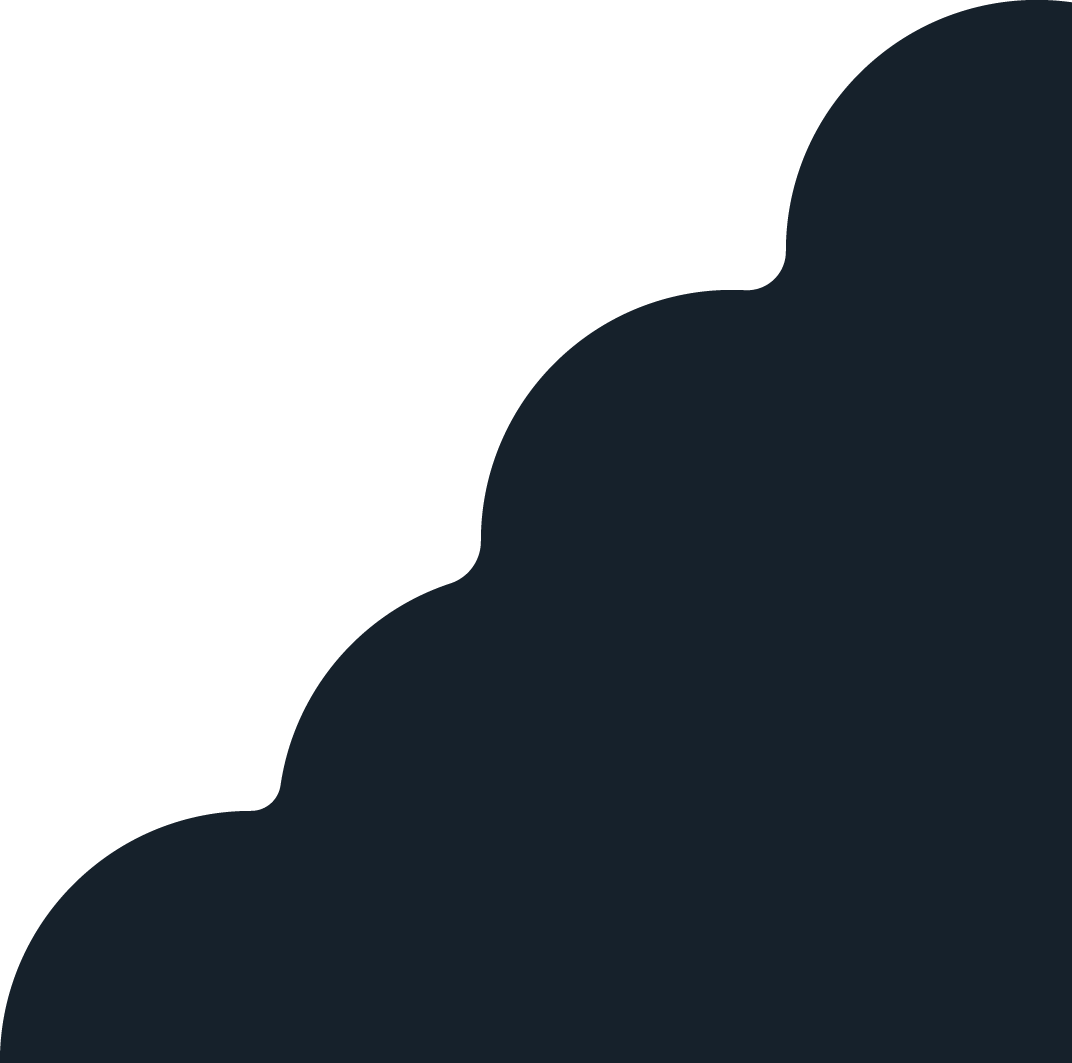
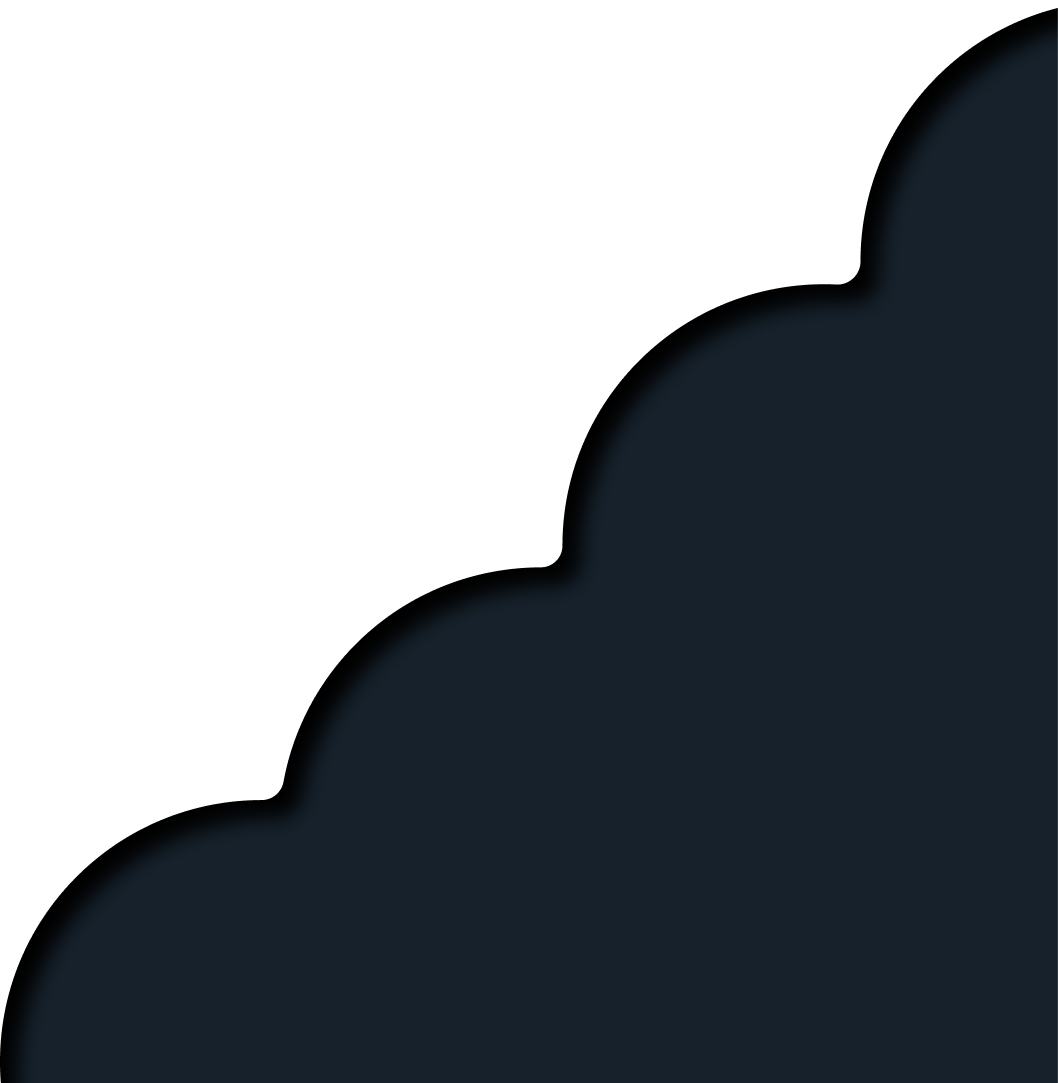
adjusted css, added webp img

Changed region(s): [[0.0, 0.0, 1.0, 1.0]]

diff --git a/style.css b/style.css
@@ -21,8 +21,33 @@ body{
   font-family:var(--base-font);
 }
 
-/* Ensure images behave predictably */
 img{display:block; max-width:100%; height:auto;}
+
+.title-span{ color:var(--fourth-clr); font-family:inherit; font-size:inherit; }
+
+h1{
+  margin-top:40px;
+  margin-bottom:10px;
+  font-family:var(--script-font);
+  font-size:clamp(5rem,8vw,7.5rem);
+}
+
+p{
+  max-width:420px;
+  font-size:16px;
+  line-height:1.5;
+  margin:30px 0;
+  color:var(--primary-clr);
+  text-align:left;
+}
+
+h6{
+  font-size:30px;
+  font-weight:600;
+  color:var(--third-clr);
+  font-family:var(--script-font);
+  text-align:left;
+}
 
 /* NAVBAR */
 .navbar{
@@ -47,19 +72,13 @@ img{display:block; max-width:100%; height:auto;}
   height:38px;
   background:var(--secondary-clr);
   border-radius:50%;
-  display:flex;
-  align-items:center;
-  justify-content:center;
+  position: relative;
   padding:2px;
-  font-weight:bold;
-  color:var(--primary-clr);
 }
 .logo img{
   width:100%;
   height:100%;
-  object-fit:cover;
-  border-radius:50%;
-  display:block;
+  object-fit:contain;
 }
 
 /* MENU */
@@ -87,13 +106,19 @@ img{display:block; max-width:100%; height:auto;}
   transition:background .3s ease,color .3s ease;
 }
 
-.menu a:hover{ background:rgba(236,248,255,0.15); }
+.menu a:hover{ 
+  background:rgba(236,248,255,0.15);
+}
 
 /* CTA differenziata */
 .menu .cta{
   background:var(--secondary-clr);
   color:var(--primary-clr);
   font-size:16px;
+}
+.menu .cta:hover{
+  background:var(--third-clr);
+  color:var(--secondary-clr);
 }
 
 /* ---------- RIPPLE EFFECT ---------- */
@@ -142,33 +167,6 @@ img{display:block; max-width:100%; height:auto;}
   padding-left:120px;
   padding-top:100px;
   z-index:2;
-}
-
-/* titolo */
-.title-span{ color:var(--fourth-clr); font-family:inherit; font-size:inherit; }
-
-.hero-left h1{
-  margin-top:40px;
-  margin-bottom:10px;
-  font-family:var(--script-font);
-  font-size:clamp(5rem,8vw,7.5rem);
-}
-
-.description{
-  max-width:420px;
-  font-size:16px;
-  line-height:1.5;
-  margin:30px 0;
-  color:var(--primary-clr);
-  text-align:left;
-}
-
-.hero-left h3{
-  font-size:30px;
-  font-weight:600;
-  color:var(--third-clr);
-  font-family:var(--script-font);
-  text-align:left;
 }
 
 /* lato destro immagini */

diff --git a/index.html b/index.html
@@ -15,7 +15,7 @@
 <body>
 
   <header class="navbar">
-    <div class="logo"><img src="Assets/img/donisi.png" alt="Sfondo decorativo" class="logo" width="38px" /></div>
+    <div class="logo"><img src="Assets/img/donisi.webp" alt="Sfondo decorativo" class="logo" width="38px" /></div>
 
     <nav class="menu">
       <!-- <a href="#">Home</a> -->
@@ -31,13 +31,13 @@
       <p class="description">
         Da quasi 60 anni aiutiamo privati e imprese a ottenere impianti efficienti, sicuri e duraturi. Dalla progettazione alla realizzazione, offriamo un servizio completo.
       </p>
-      <h3>
+      <h6>
         La scelta giusta per la <br />
         salute dei tui tubi
-      </h3>
+      </h6>
     </div>
     <div class="hero-right">
-      <img src="Assets/img/nuvola_dx.png" class="bg-shape" alt="">
+      <img src="Assets/img/nuvola.webp" class="bg-shape" alt="">
       <img src="Assets/img/plumber.webp" class="plumber" alt="">
     </div>
   </main>
